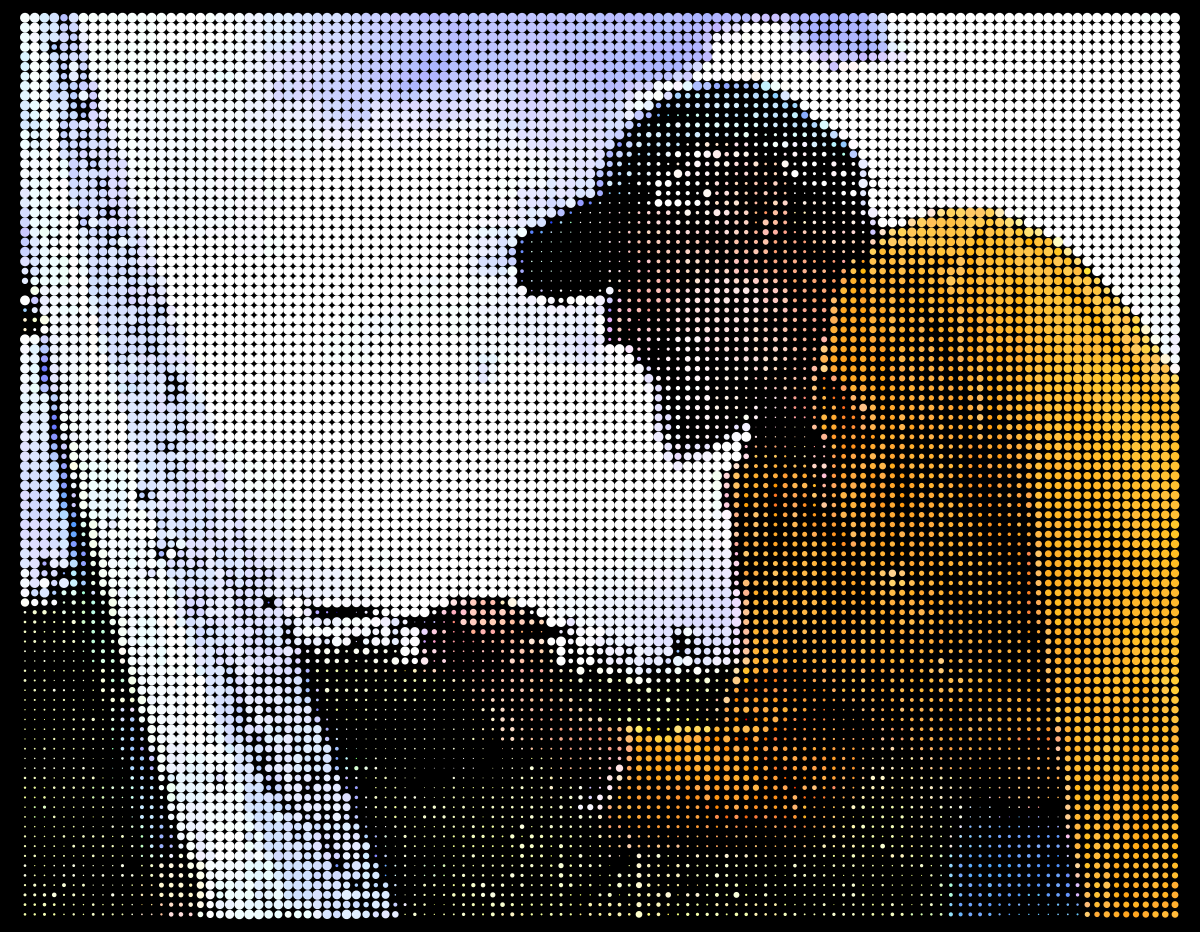
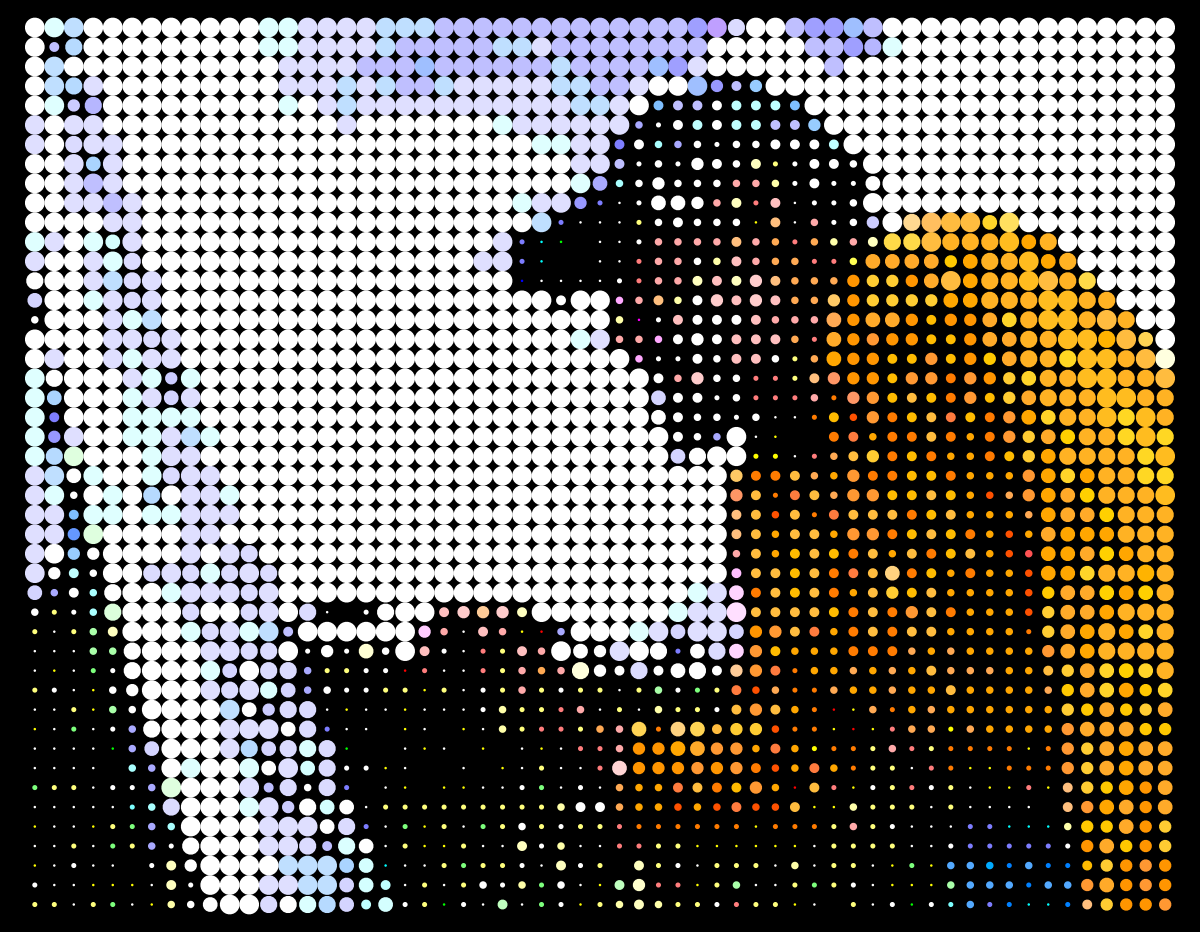
update sketch

diff --git a/_posts/2016-06-15-pixellation.md b/_posts/2016-06-15-pixellation.md
@@ -13,7 +13,13 @@ This sketch features the new JRubyArt [chooser][file_chooser] library. But to ma
 
 {% highlight ruby %}
 load_library :chooser
-attr_reader :img, :data, :skip
+attr_reader :img, :data, :skip, :poster
+
+###########
+# Sophisticated example of file chooser.
+###########
+
+KEYS = %w(0 4 5 6 7 8 9)
 
 def settings
   size 500, 500
@@ -25,12 +31,14 @@ def setup
   resizable
   fill 0, 0, 200
   text('Click Window to Load Image', 10, 100)
-  @skip = 5 # controls apparent resolution
+  @skip = 10 # controls apparent resolution
   @data = []
+  @poster = 0
 end
 
 def draw
   image(img, 0, 0) unless img.nil?
+  filter(POSTERIZE, poster) unless poster == 0
 end
 
 def write_data(name, data)
@@ -79,6 +87,8 @@ def key_pressed
     puts 'done'
   when 's', 'S'
     save_frame(data_path('original.png'))
+  when *KEYS
+    @poster = key.to_i
   else
     puts format('key %s was pressed', key)
   end
@@ -100,7 +110,6 @@ def pixellate
   end
   write_start 'haddock', data
 end
-
 
 {% endhighlight %}
 
